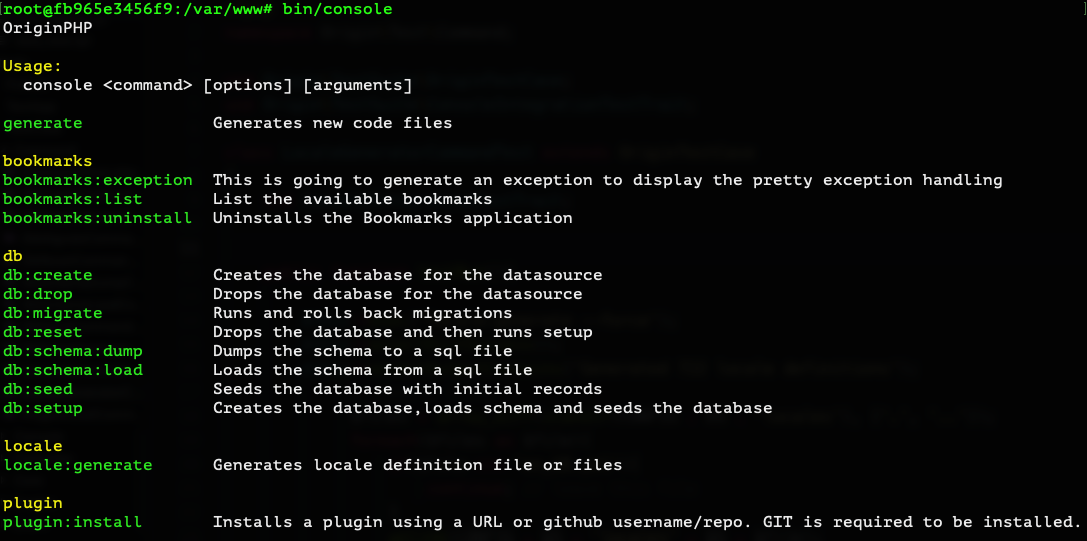
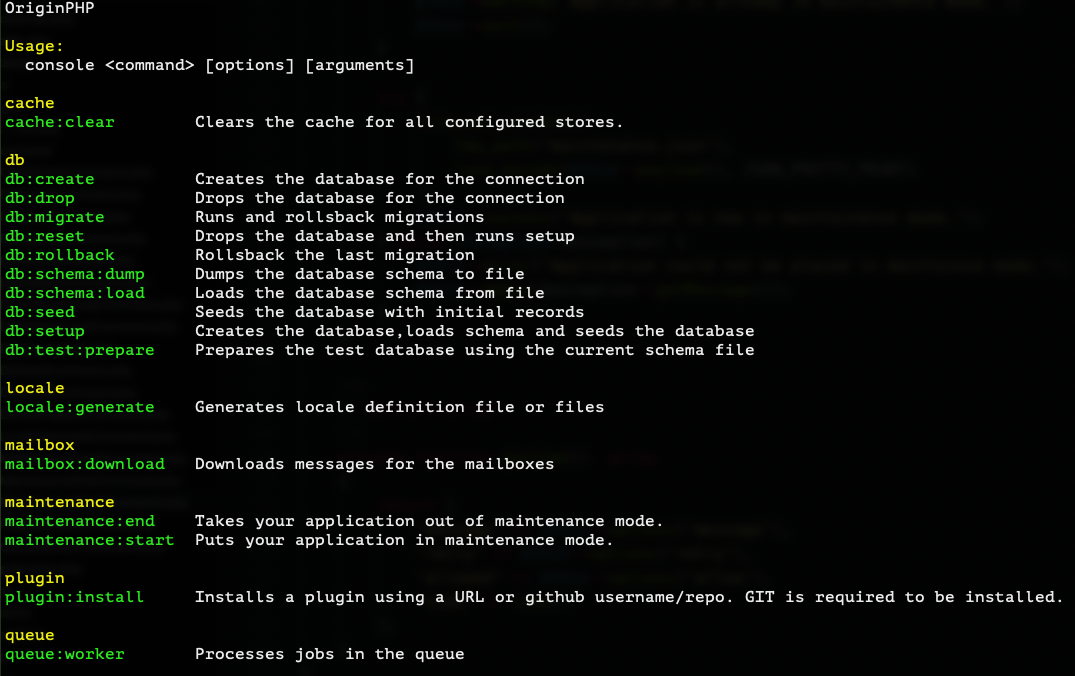
Updating docs

Changed region(s): [[0.0, 0.0, 0.9823, 0.976], [0.1842, 0.9464, 1.0, 0.976]]

diff --git a/navigation.php b/navigation.php
@@ -84,7 +84,8 @@ return [
             'Docker (DDE)' => 'docs/development/dockerized-development-environment',
             'Internationalization (I18n)' => 'docs/development/internationalization-i18n',
             'Testing' => 'docs/development/testing',
-            'Deployment' => 'docs/development/deployment'
+            'Deployment' => 'docs/development/deployment',
+            'Maintenance Mode' => 'docs/development/maintenance-mode'
         ],
     ],
     'Utilities' => [

diff --git a/source/docs/development/maintenance-mode.md b/source/docs/development/maintenance-mode.md
@@ -1,0 +1,62 @@
+---
+title: Maintenance Mode
+description: Maintenance Mode for the OriginPHP Framework
+extends: _layouts.documentation
+section: content
+---
+# Maintenance Mode
+
+Sometimes you will need to carry out maintenance on your application, the maintenance mode temporarily disables
+the web application and displays a screen that informs users that the application is down for maintenance.
+
+When maintenance mode is enabled
+
+- the web application will either 
+    - throw a `MaintenanceModeException` with a 503 status code, this is carried out by the `MaintenanceModeMiddleware` (default behavior)
+    - redirect user to the `public/maintenance.html` page
+- The `queue:worker` command won't process any jobs
+- The `mailbox:download` command wont download any emails
+- The email piping server will store the any emails to disk, and we will be imported next time an email comes in when not in maintenance mode
+
+
+## Start Maintenance Mode
+
+To start maintenance mode
+
+```bash
+$ bin/console maintenance:start
+```
+
+Options are:
+
+- message: This is the a custom message that will be shown when the exception is thrown
+- allow: Use this to set ip addresses that can still access the web application
+- retry: Number of seconds to wait before retrying, this is added to the created time and then set in header `Retry-After`.
+
+For example:
+
+```bash
+$ bin/console maintenance:start --message "Upgrading the database" --allow 192.168.1.120 --allow 192.168.1.140
+```
+
+By default a `MaintenceModeException` is thrown, however if you prefer to show a custom HTML page, then you can configure the Middleware to do this
+
+edit your `app/Http/Application.php` where the Middleware is loaded
+
+```php
+$this->loadMiddleware(MaintenanceModeMiddleware::class, [
+        'html' => true
+    ]);
+```
+
+This will render the HTML 
+
+![HTML Maintenance Mode](/assets/images/maintenance-mode.png)
+
+## End Maintenance Mode
+
+Once you have finished carrying out any maintenance, run the `maintenance:end` command
+
+```bash
+$ bin/console maintenance:end
+```

diff --git a/source/docs/model/validation.md b/source/docs/model/validation.md
@@ -13,8 +13,6 @@ You can setup validation rules for your fields in the `initialize` method of you
 
 The [validation package](https://github.com/originphp/validation) provides the validation rules used by the framework, and is installed in each project. You can also this package in your other project.
 
-> As of version 2.6, custom validation settings `required` and `allowBlank` were renamed to `present` and `allowEmpty`, these will be renamed in the background automatically for your existing rule definitions.
-
 The definition for validation rule is structured like this
 
 ```php
@@ -24,7 +22,7 @@ The definition for validation rule is structured like this
   'on' => null , // null, create or update
   'present' => false, // if the key exists but does not need data
   'allowEmpty' => false, // treat null values as valid
-  'stopOnFail' => false, // new in v2.6
+  'stopOnFail' => false
 ]
 ```
 
@@ -33,7 +31,7 @@ The definition for validation rule is structured like this
 - _on_: default is `null`. You can also set to `create` or `update` to only check validation rule when a record is created or updated.
 - _present_: default is `false`. If set to true then the entity must have the field (regardless if its blank)
 - _allowEmpty_: default is `false`. If set to `true` validation will pass on empty values, this is handy for some validation types and fine grain control. Lets say you create a validation rule to check MX records for an email address, there is no point running this validation rule on an empty value.
-- _stopOnFail_: default is `false`. new in version 2.6. Set to true to stop processing remaining rules when validation failure occurs.
+- _stopOnFail_: default is `false`. Set to true to stop processing remaining rules when validation failure occurs.
 
 You configure your validation rules in your `Model`, here is an example how to set options for the validation rules
 

diff --git a/source/docs/development/deployment.md b/source/docs/development/deployment.md
@@ -10,7 +10,7 @@ These instructions are for `Ubuntu 20.04`,`Apache` and `MySQL 8.x` setup.
 
 ## SSL Certificate
 
-You can create a free SSL certificate with `letsencrypt` , to do so install certbot
+You can create a free SSL certificate with `letsencrypt` , to do, you need to install `certbot`
 
 ```bash
 $ sudo apt install certbot python3-certbot-apache
@@ -223,8 +223,18 @@ $ scp dump.sql username@example.com:~
 
 ## SSH Tunnel
 
-Lets say you want to create a SSH tunnel for the MySQL port
+Lets say you want to create a SSH tunnel for the MySQL port, you can then access the remote server
+port `3306` on your `localhost` port `3307`.
 
 ```bash
-$ ssh -L 3306:localhost:3306 user@example.com
+$ ssh -L 3307:localhost:3306 user@example.com
+```
+
+
+## Generate a Random Password (Linux)
+
+To generate a quick random password
+
+```bash
+$ openssl rand -hex 8
 ```

diff --git a/source/docs/development/configuration.md b/source/docs/development/configuration.md
@@ -10,8 +10,6 @@ The configuration for your application can be found in the `config` folder. Ther
 
 ## Environment Settings
 
-> As of 2.6, .env is used, and a cached version is created when not in debug mode, and this file is .env.php (this provides backwards compatibility).
-
 When you first create a project with composer,it will rename the `.env.default` to `.env` and set your information there. This information is specific to your current installation. 
 
 As you build your application then will be some custom variables that you use, make sure you always add these definitions to the `.env.default` template, since the `.env` file wont be stored in the git repository for security reasons. This way when you deploy your app to a new server, simply rename the template and fill out the details.

diff --git a/source/docs/middleware.md b/source/docs/middleware.md
@@ -224,3 +224,27 @@ protected function initialize() : void
     ]);
 }
 ```
+
+## Maintenance Mode Middleware
+
+Maintenance mode is handled by this middleware and is enabled by default, see [Maintenance Mode](/docs/development/maintenance-mode).
+
+To load the `MaintenanceModeMiddleware` which will throw a `MaintenanceModeException` if the application is in maintenance mode.
+
+```php
+protected function initialize() : void
+{
+    $this->loadMiddleware('MaintenanceMode');
+}
+```
+
+If you prefer that the middleware render a custom html file, then you can set `html` to `true` and this will render the `maintence.html` in the `public` folder.
+
+```php
+protected function initialize() : void
+{
+    $this->loadMiddleware('MaintenanceMode', [
+        'html' => true
+    ]);
+}
+```

diff --git a/source/docs/getting-started.md b/source/docs/getting-started.md
@@ -6,7 +6,7 @@ section: content
 ---
 # Getting Started with OriginPHP
 
-> This documentation is for version 3.x, see [2.x documentation](/2.0/getting-started) for the prior version. We also have produced an [upgrade guide](/docs/upgrade).
+> This documentation is for version 3.x, see [2.x documentation](/2.0/getting-started) for the prior version. We also have produced an [upgrade guide](/docs/upgrade). Applications created on or after 17th July 2020 using `composer create-project` will be using the new version.
 
 ## What is OriginPHP?
 

diff --git a/source/docs/console-commands.md b/source/docs/console-commands.md
@@ -120,7 +120,7 @@ When adding an option, you can pass an array with the following keys
 - short: this the short name for the option (or an alias)
 - required: default is fale, but if you set this to true then it will trigger an error if the value is not provided.
 - default: this is the default value to return unless the option is passed with something else
-- type: default is string. Can be string, boolean, numeric.
+- type: default is string. Can be string, boolean, numeric or array
 
 ### Arguments
 
